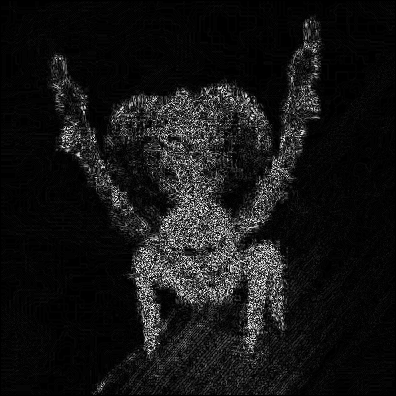
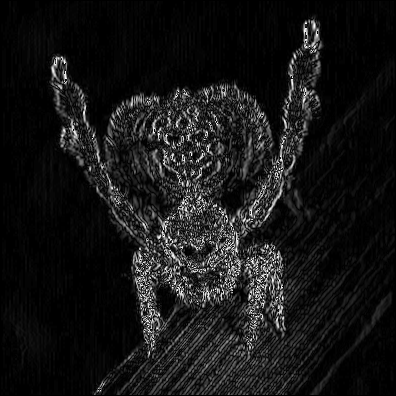
9th commit

diff --git a/PyLearn7-Assignment31/edge detection/edge_detection.py b/PyLearn7-Assignment31/edge detection/edge_detection.py
@@ -9,6 +9,10 @@ result = np.zeros((rows, cols), dtype=np.uint8)
 kernel = np.array([[-1, -1, -1],
                    [-1, 8, -1],
                    [-1, -1, -1]])
+
+# kernel = np.array([[-1, 0, 1],
+#                    [-2, 0, 2],
+#                    [-1, 0, 1]])
           
 for i in range(1, rows-1):
     for j in range(1, cols-1):
@@ -16,4 +20,4 @@ for i in range(1, rows-1):
         average = np.abs(np.sum(kernel * region))
         result[i, j] = average
 
-cv2.imwrite("output/lion_output.jpg", result)
+cv2.imwrite("output/lion_output.png", result)
